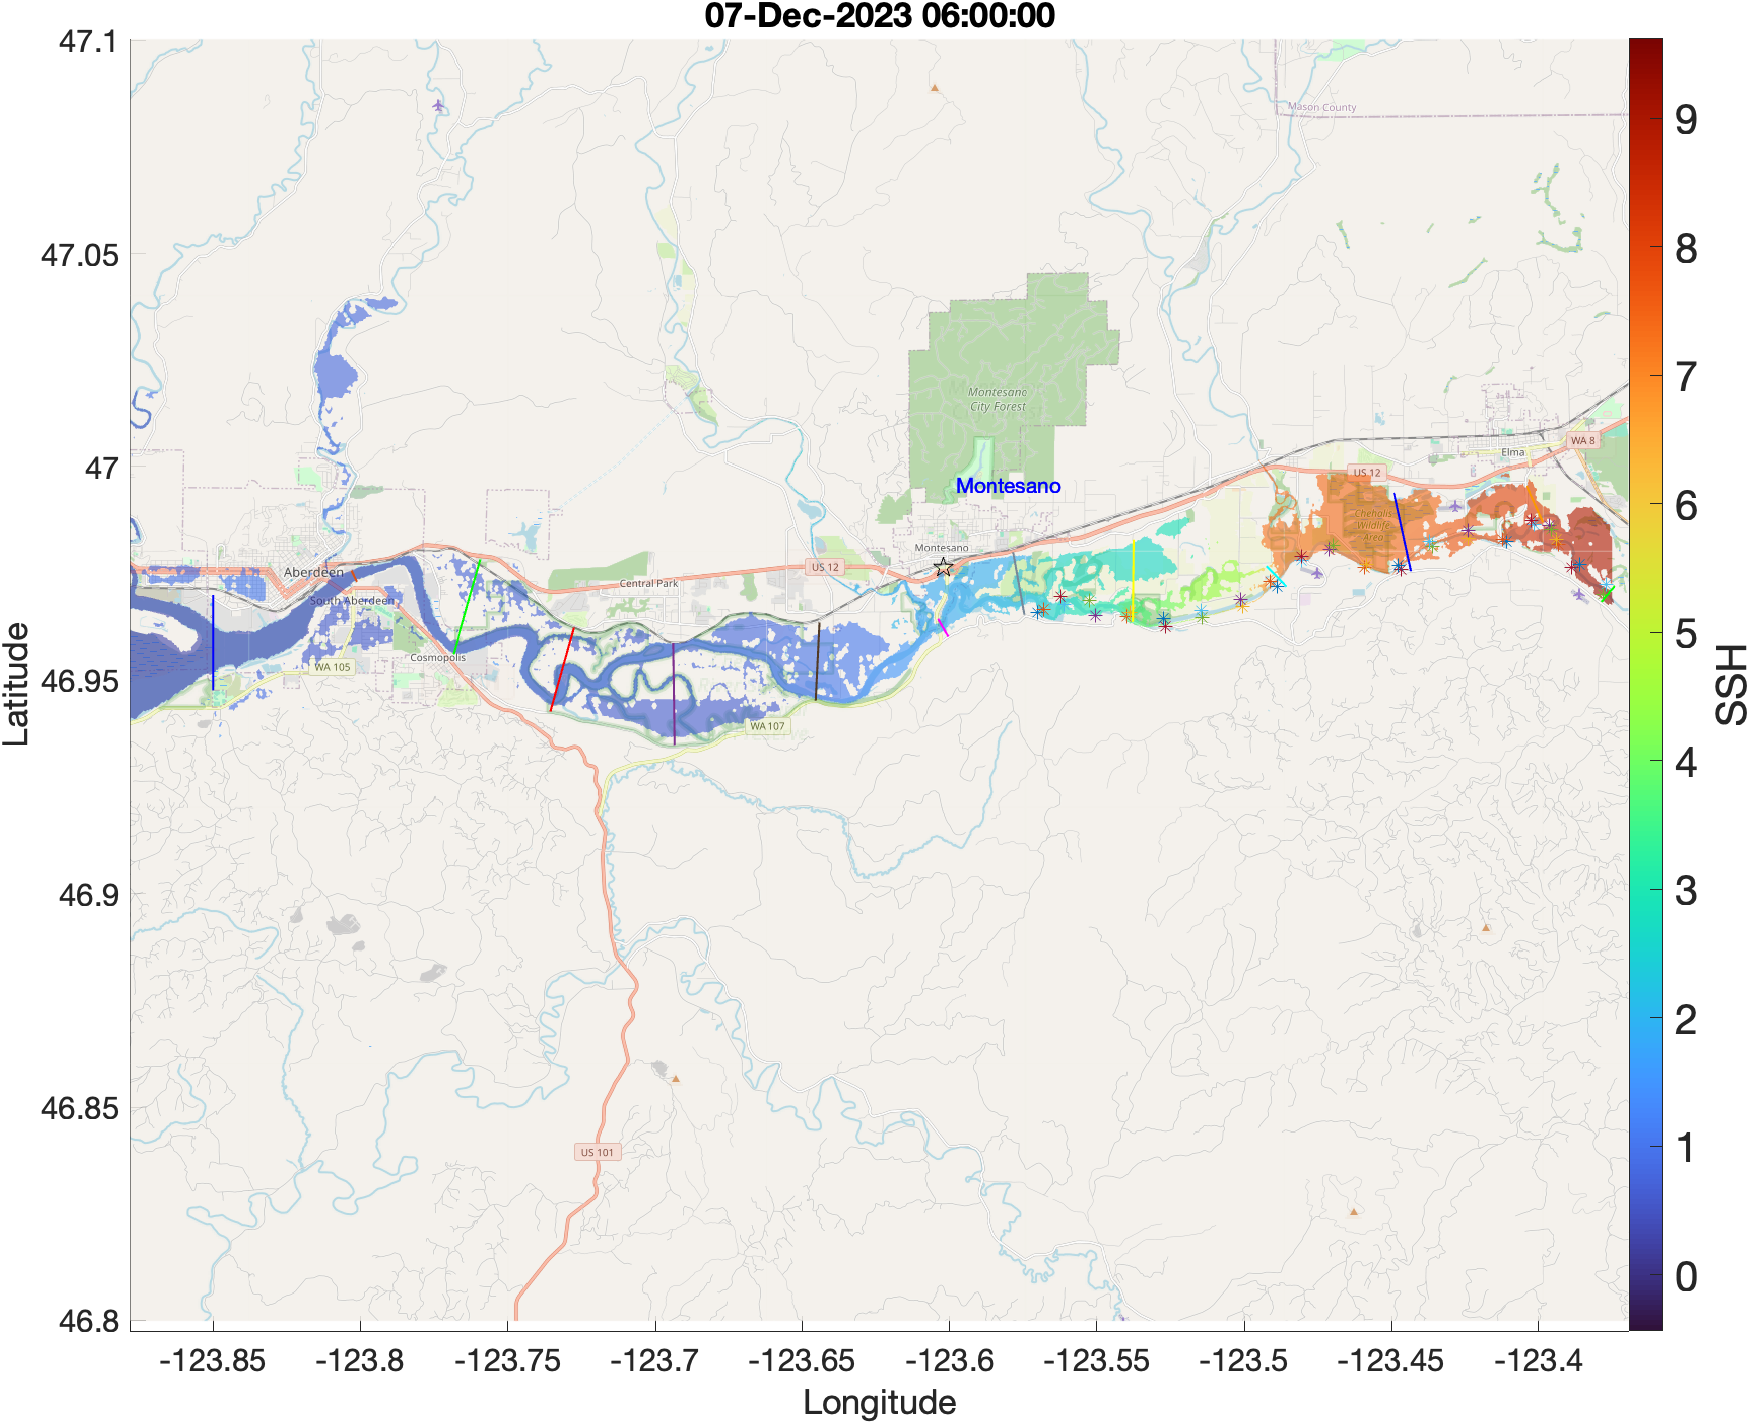
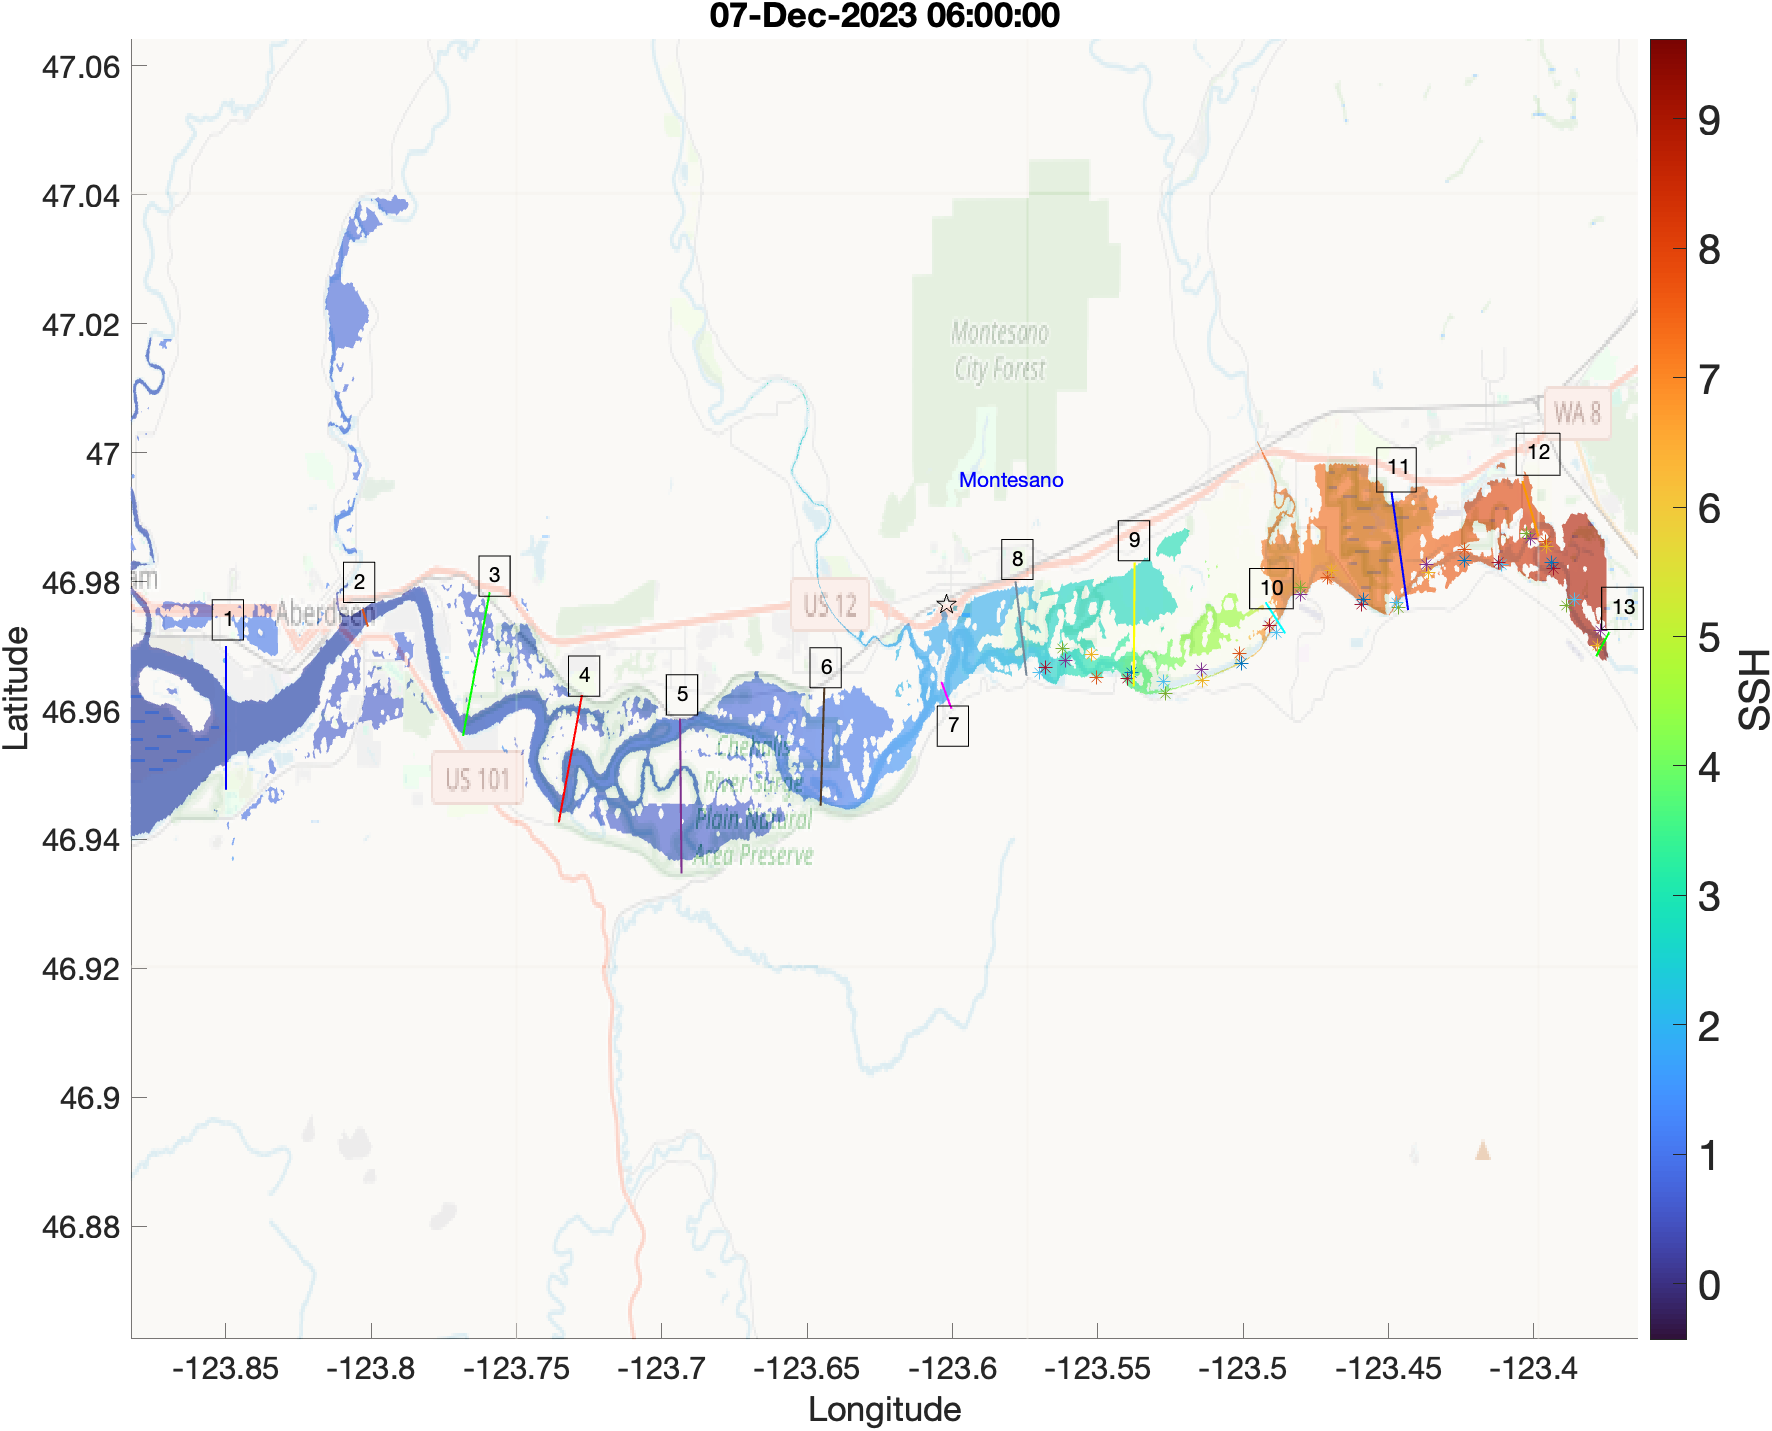
Update weekly log

diff --git a/WeeklyLogs/Log100624_101224.md b/WeeklyLogs/Log100624_101224.md
@@ -6,25 +6,33 @@
 
 
 ## To do:
-1) Run model (TMD) with v4 grid including new observation and discharge points
-2) Cross-section profiles
-3) Team 2 meeting presentation ideas
+1) Run model (TMD) with v4 grid including new observation and discharge points<br>
+2) Cross-section profiles<br>
+3) Team 2 meeting presentation ideas<br>
 
 
 ## Results:
-1) Cross sections for Chehalis River<br>
+### 1) Cross sections for Chehalis River<br>
 - Ran model TMD w/v4 grid (no weir)
 - Chose transect points (13) based on max inundation (spaced ~4km apart) (Fig. 1)
 
 ![Transect map](../Figures/101024meeting/Job21216554_TMDv4_transectmap.png)<br>
 Figure 1: Map of max inundation (Dec. 07, 2023 T06:00) with cross sectional transects (13).
 
-2) Plotted cross sectional area, discharge, and water levels<br>
+### 2) Plotted cross sectional area, discharge, and water levels<br>
 - Generated cross section file (CrsFile) for model to generate cross sectional area and discharge
 - Plotted cross sectional area for each transect (Fig. 2)
 - Plotted discharge for each transect (Fig. 3)
 - Plotted cumulative discharge for each transect (Fig. 4)
 - Plotted cross channel water depth profile for each transect (Fig. 5-17)
+	- Transects 4 and 5 are supposed to be in tidal surge plain but much of it seems very dry/shallow (which could make sense, plots make it difficult to see shallow depths)
+	- Transect 7 (just downstream of Montesano) gets pretty deep in channel during large discharge)
+	- Transect 8 is the last point where we can see "some" tidal influence
+	- Transects 9 and 11 show dry until December 5, which is seen in animation
+	- Transect 9 shows two water channels (north channel could be caused by lakes/pools/streams that are seen in Google maps (but relatively shallow (<2m)
+	- Transect 10 show very deep channel (up to 10m), which could explain where the discharge from Satsop pools up
+	- Transect 11 shows two water channels, similar to 9 where north channel has existing pools and streams
+	- Discharge at Porter cross section shows values agree with USGS gauge
 
 ![Cross sectional area](../Figures/101024meeting/Job21216554_TMDv4_transectarea.png)<br>
 Figure 2: Cross sectional area for all transects (13).
@@ -90,5 +98,7 @@ Figure 17: Cross channel water depth profile (Transect 13).
 
 ## To do:
 - Run model with different grid version and compare cross channel profiles, discharge, and along-channel profile
+- Put cross sections along Wynoochee and Satsop
+- Improve cross-sectional water depth plots (make x_dist real, improve resolution of colorbar to see shallower depths)
 - Start presentation for Team 2 meeting
 - Brainstorm more ideas for Winter Storms Forum
